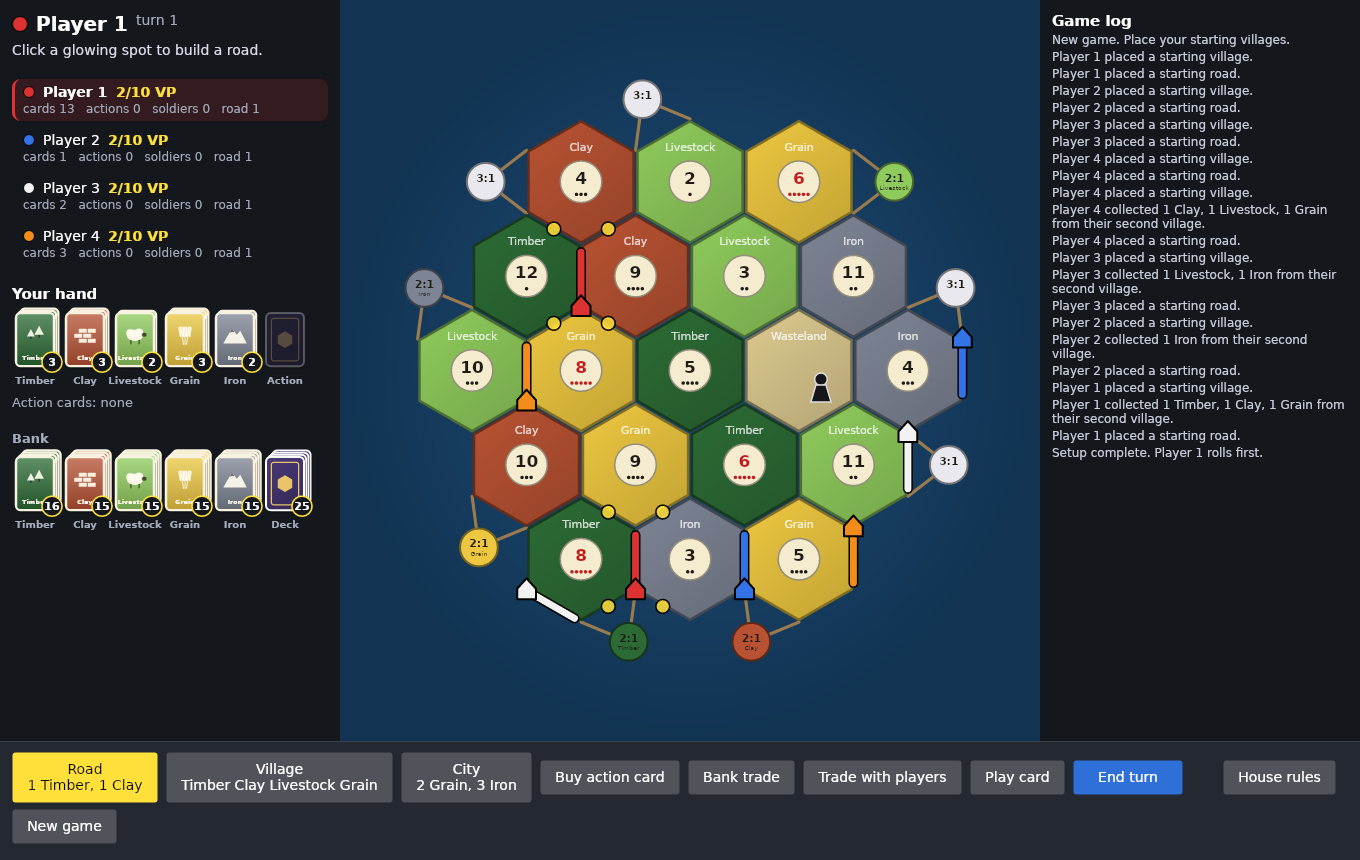
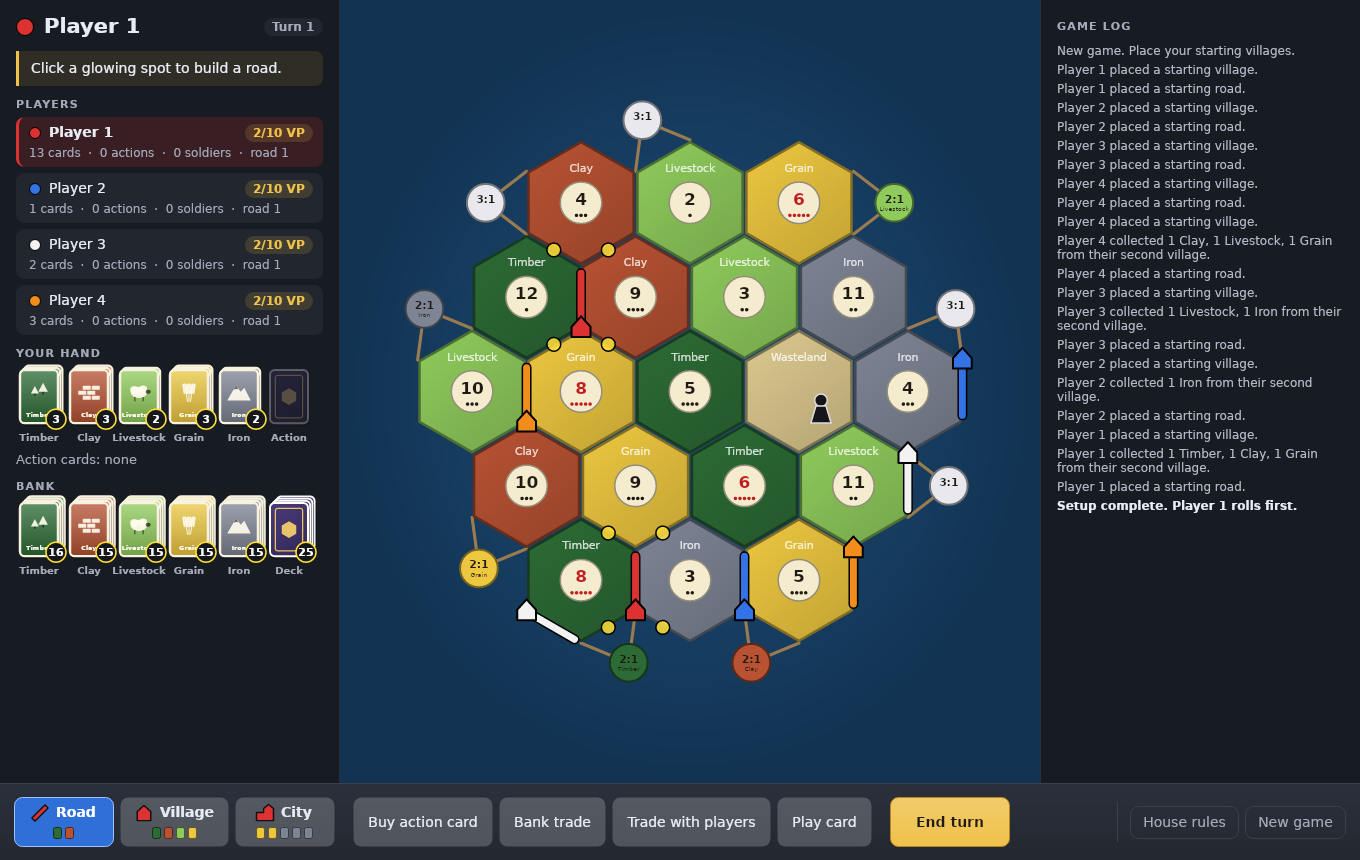
README: screenshots of the polished game
Claude-Session: https://claude.ai/code/session_018Wu7Eo5PUA2TjvmwF1mF9Y

diff --git a/CHANGELOG.md b/CHANGELOG.md
@@ -5,6 +5,9 @@ Notable changes are listed here, newest first.
 
 ## Unreleased
 
+- A proper title screen, the game icon on the window, a one-row action bar, a matching look for every dialog,
+  hex highlighting under the mouse and a victory screen with the final standings.
+- Escape closes dialogs.
 - New title-page README with a download button, a rules guide ([How to play](docs/HOW_TO_PLAY.md)) and a developer
   guide ([DEVELOPMENT.md](docs/DEVELOPMENT.md)).
 - Continuous integration runs every test on each push and pull request.

diff --git a/README.md b/README.md
@@ -47,6 +47,8 @@
 <p align="center">
   <img src="docs/images/large-board.png" alt="A 61-tile board" width="49%">
   <img src="docs/images/trade.png" alt="Offering a trade to the table" width="49%">
+  <img src="docs/images/title.png" alt="The title screen" width="49%">
+  <img src="docs/images/victory.png" alt="The victory screen" width="49%">
 </p>
 
 ## Install
